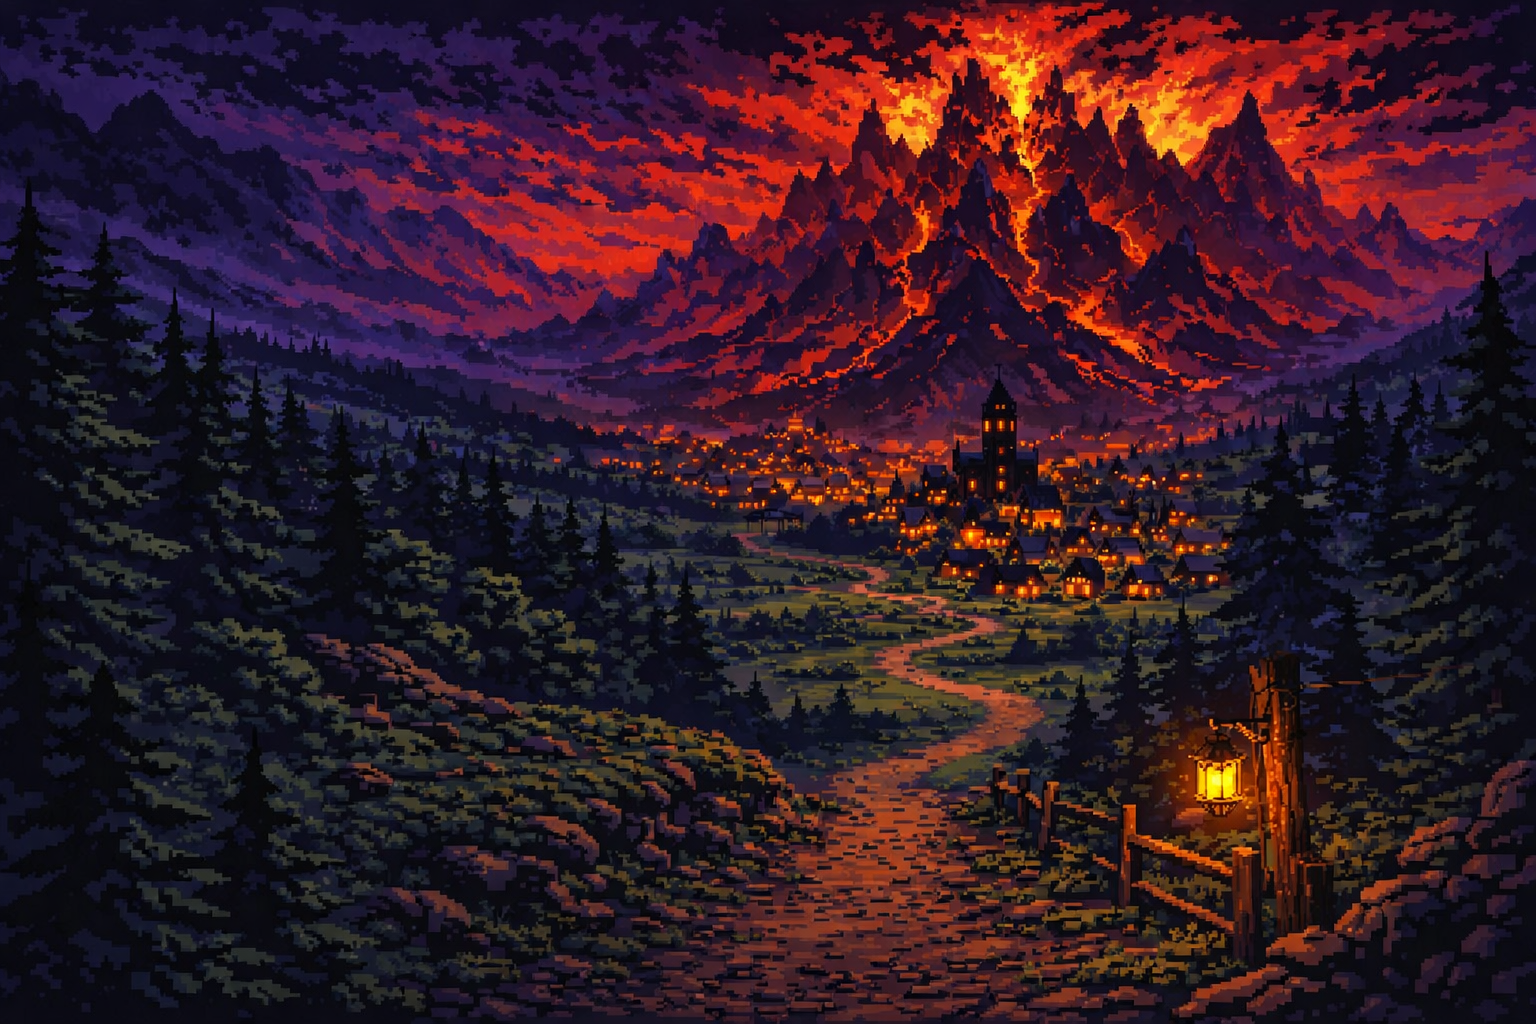
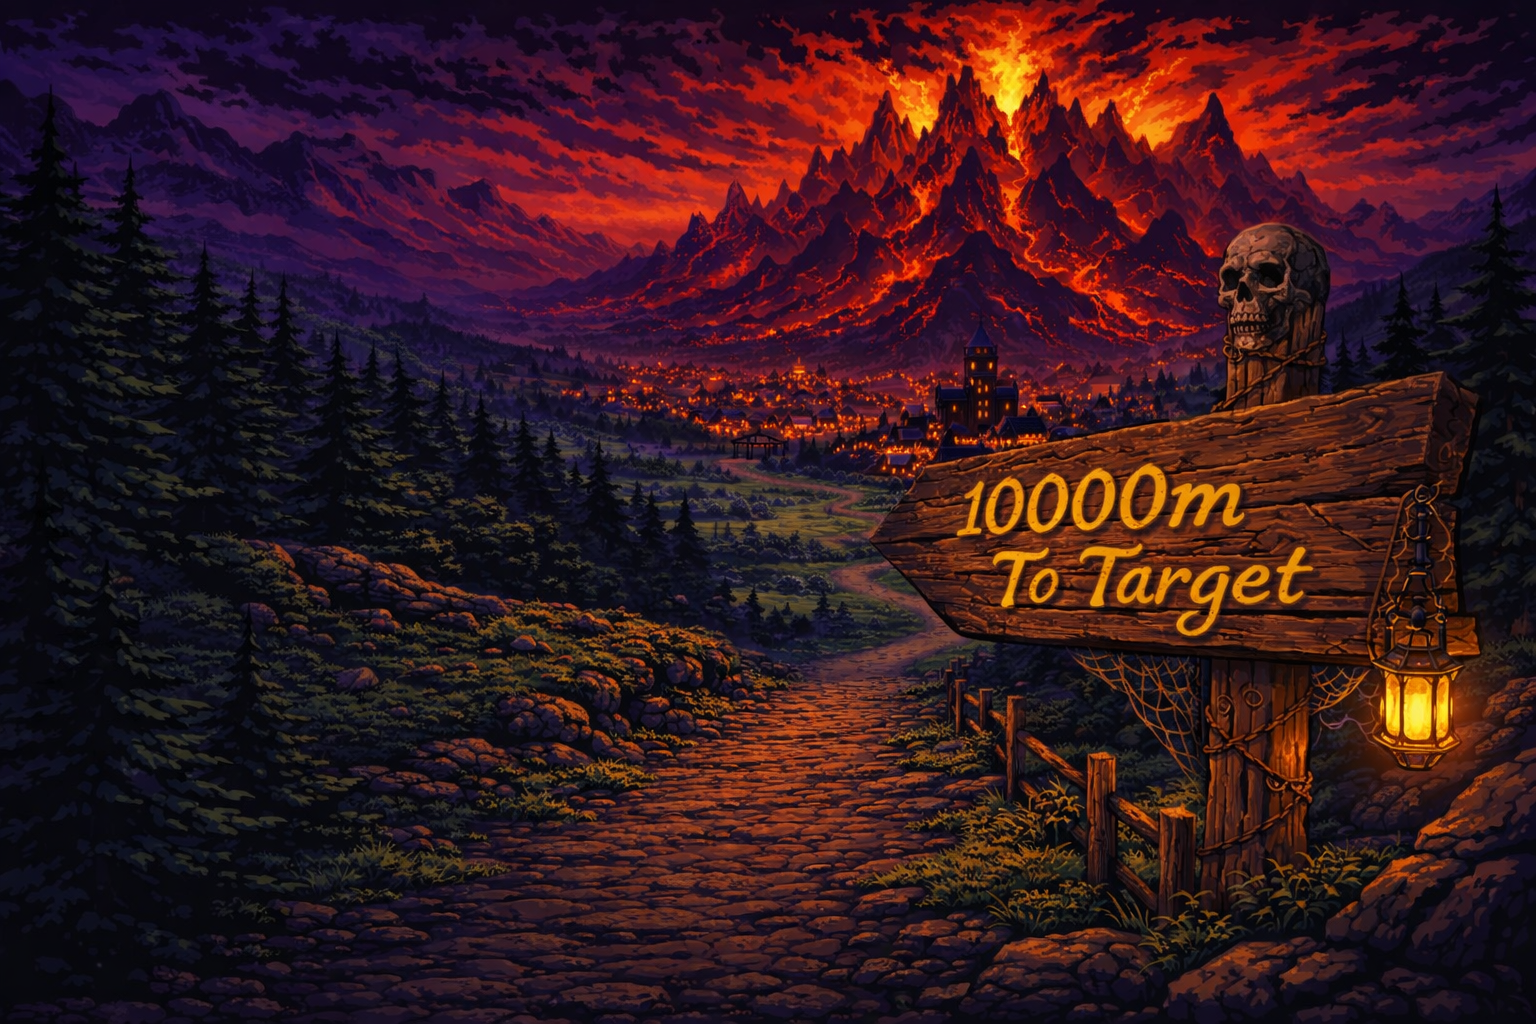
feat: New title screen — 10000m To Target background, fullscreen
- New 8-bit art background with game title in image
- Removed text title/subtitle (included in background art)
- Login form positioned at bottom with dark overlay
- Background oversized to fill any aspect ratio
- Game renamed to "10000m To Target"
- Auto-advance interpolation when tile progress hits 1.0

diff --git a/crates/gameclient/index.html b/crates/gameclient/index.html
@@ -25,7 +25,7 @@
 <body>
   <canvas id="game-canvas"></canvas>
   <script type="module">
-    import init from './web/gameclient.js?v=43';
+    import init from './web/gameclient.js?v=45';
     init();
   </script>
 </body>

diff --git a/crates/gameclient/src/title/mod.rs b/crates/gameclient/src/title/mod.rs
@@ -81,39 +81,21 @@ fn spawn_title(mut commands: Commands, font: Res<GameFont>, asset_server: Res<As
     commands.spawn((
         Sprite {
             image: asset_server.load("background.png"),
-            custom_size: Some(Vec2::new(960.0, 540.0)),
+            custom_size: Some(Vec2::new(1200.0, 700.0)), // oversized to fill any aspect ratio
             ..default()
         },
         Transform::from_xyz(0.0, 0.0, -1.0),
         TitleScreen,
     ));
 
-    // Semi-transparent dark overlay so text is readable
+    // Semi-transparent dark overlay at bottom for login form
     commands.spawn((
         Sprite {
-            color: Color::srgba(0.0, 0.0, 0.0, 0.6),
-            custom_size: Some(Vec2::new(960.0, 540.0)),
+            color: Color::srgba(0.0, 0.0, 0.0, 0.5),
+            custom_size: Some(Vec2::new(960.0, 200.0)),
             ..default()
         },
-        Transform::from_xyz(0.0, 0.0, 0.0),
-        TitleScreen,
-    ));
-
-    // Title
-    commands.spawn((
-        Text2d::new("Quest of the\nEndless Path"),
-        TextFont { font: f.clone(), font_size: 32.0, ..default() },
-        TextColor(Color::srgb(0.77, 0.64, 0.35)),
-        TextLayout::new_with_justify(JustifyText::Center),
-        Transform::from_xyz(0.0, 160.0, 1.0),
-        TitleScreen,
-    ));
-
-    commands.spawn((
-        Text2d::new("A cooperative treadmill adventure"),
-        TextFont { font: f.clone(), font_size: 8.0, ..default() },
-        TextColor(Color::srgb(0.5, 0.5, 0.5)),
-        Transform::from_xyz(0.0, 96.0, 1.0),
+        Transform::from_xyz(0.0, -170.0, 0.0),
         TitleScreen,
     ));
 
@@ -122,7 +104,7 @@ fn spawn_title(mut commands: Commands, font: Res<GameFont>, asset_server: Res<As
         Text2d::new("Name:"),
         TextFont { font: f.clone(), font_size: 16.0, ..default() },
         TextColor(Color::srgb(0.6, 0.6, 0.6)),
-        Transform::from_xyz(-160.0, 32.0, 1.0),
+        Transform::from_xyz(-160.0, -128.0, 1.0),
         TitleScreen,
     ));
 
@@ -131,7 +113,7 @@ fn spawn_title(mut commands: Commands, font: Res<GameFont>, asset_server: Res<As
         Text2d::new("> Dac_"),
         TextFont { font: f.clone(), font_size: 16.0, ..default() },
         TextColor(Color::srgb(0.77, 0.64, 0.35)),
-        Transform::from_xyz(-160.0, 0.0, 1.0),
+        Transform::from_xyz(-160.0, -160.0, 1.0),
         UsernameText,
         ClickZone { field: ActiveField::Username, half_width: 200.0, half_height: 24.0 },
         TitleScreen,
@@ -142,7 +124,7 @@ fn spawn_title(mut commands: Commands, font: Res<GameFont>, asset_server: Res<As
         Text2d::new("Game code:"),
         TextFont { font: f.clone(), font_size: 16.0, ..default() },
         TextColor(Color::srgb(0.6, 0.6, 0.6)),
-        Transform::from_xyz(-160.0, -40.0, 1.0),
+        Transform::from_xyz(-160.0, -200.0, 1.0),
         TitleScreen,
     ));
 
@@ -151,7 +133,7 @@ fn spawn_title(mut commands: Commands, font: Res<GameFont>, asset_server: Res<As
         Text2d::new("  QUEST1"),
         TextFont { font: f.clone(), font_size: 16.0, ..default() },
         TextColor(Color::srgb(0.5, 0.5, 0.5)),
-        Transform::from_xyz(-160.0, -72.0, 1.0),
+        Transform::from_xyz(-160.0, -232.0, 1.0),
         JoinCodeText,
         ClickZone { field: ActiveField::JoinCode, half_width: 200.0, half_height: 24.0 },
         TitleScreen,
@@ -162,7 +144,7 @@ fn spawn_title(mut commands: Commands, font: Res<GameFont>, asset_server: Res<As
         Text2d::new("TAB to switch  |  ENTER to join"),
         TextFont { font: f.clone(), font_size: 8.0, ..default() },
         TextColor(Color::srgb(0.35, 0.35, 0.35)),
-        Transform::from_xyz(0.0, -120.0, 1.0),
+        Transform::from_xyz(0.0, -260.0, 1.0),
         TitleScreen,
     ));
 
@@ -171,7 +153,7 @@ fn spawn_title(mut commands: Commands, font: Res<GameFont>, asset_server: Res<As
         Text2d::new(""),
         TextFont { font: f, font_size: 16.0, ..default() },
         TextColor(Color::srgb(0.3, 0.8, 0.3)),
-        Transform::from_xyz(0.0, -160.0, 1.0),
+        Transform::from_xyz(0.0, -100.0, 1.0),
         StatusText,
         TitleScreen,
     ));

diff --git a/crates/gameclient/src/terrain/tilemap.rs b/crates/gameclient/src/terrain/tilemap.rs
@@ -827,8 +827,15 @@ fn update_path_visuals(
 
                 // Advance local progress
                 interp_progress.0 += progress_per_sec * time.delta_secs();
-                // Clamp at 1.0 — the server poll will snap to next tile when ready
-                interp_progress.0 = interp_progress.0.clamp(0.0, 1.0);
+
+                // When we reach 1.0, locally advance to next tile and reset
+                if interp_progress.0 >= 1.0 {
+                    interp_progress.0 = 0.0;
+                    // Advance current_index locally (server will confirm later)
+                    if route.current_index + 1 < route.waypoints.len() {
+                        route.current_index += 1;
+                    }
+                }
 
                 Vec2::new(x, y)
             }
